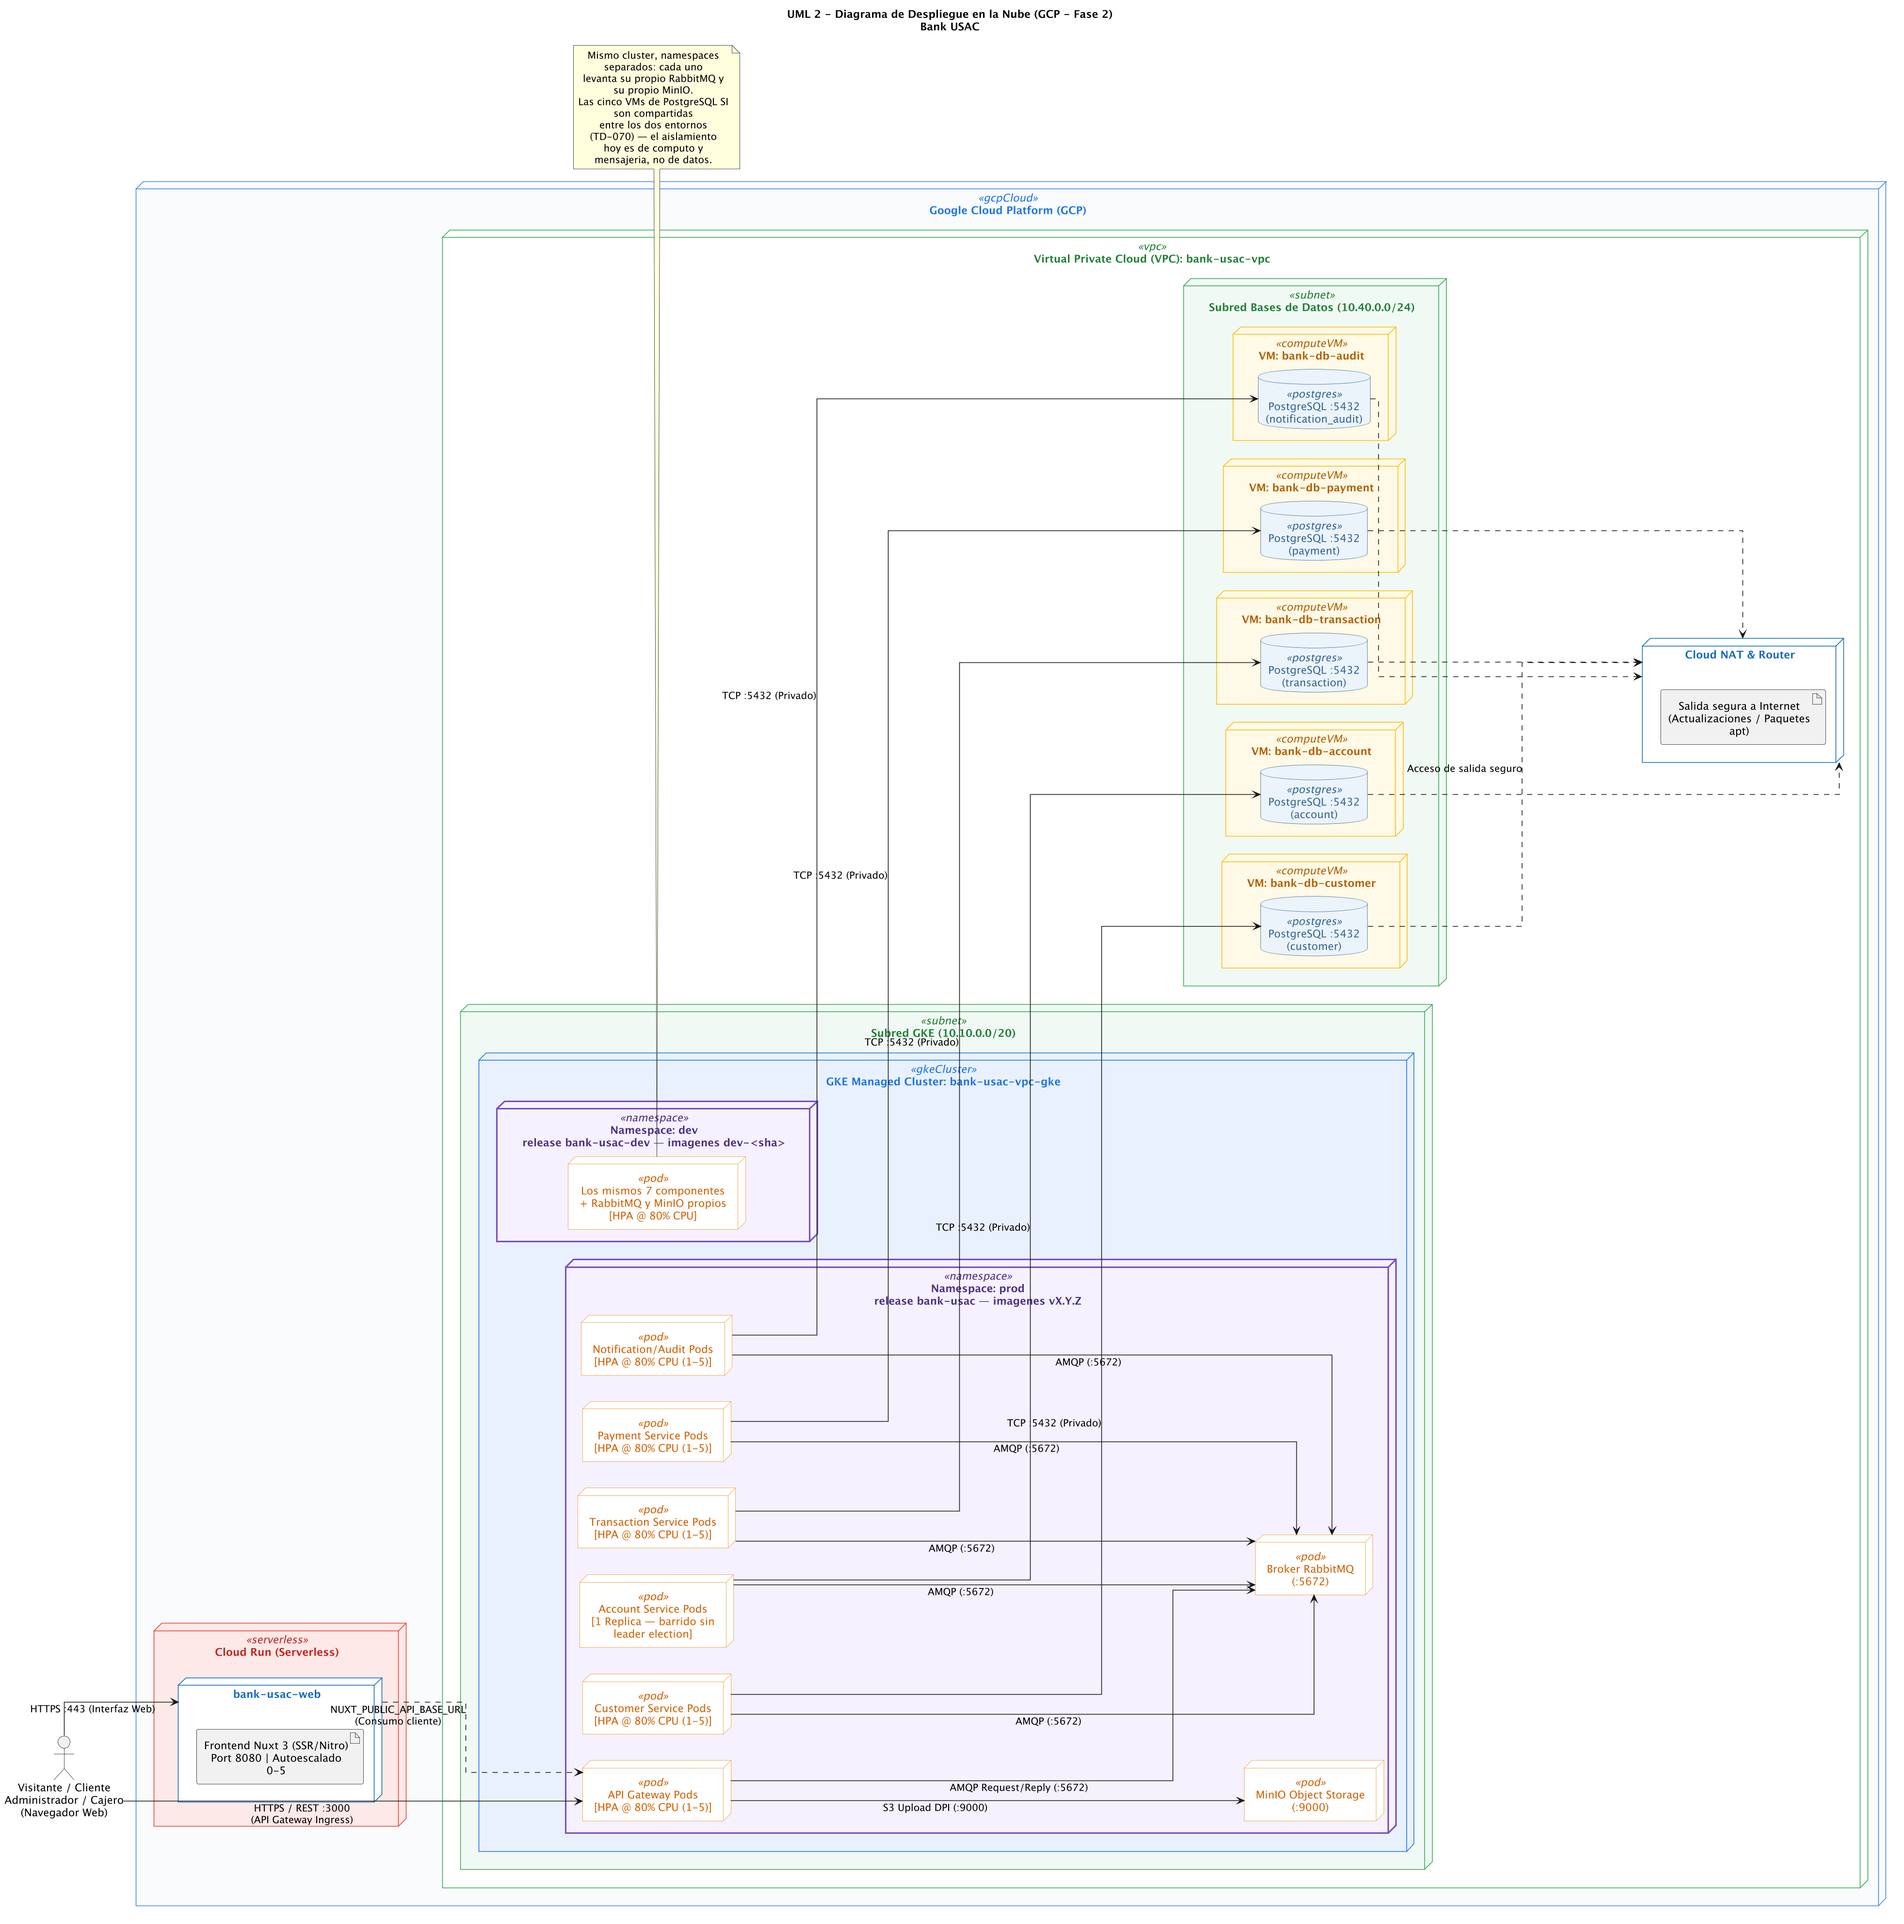
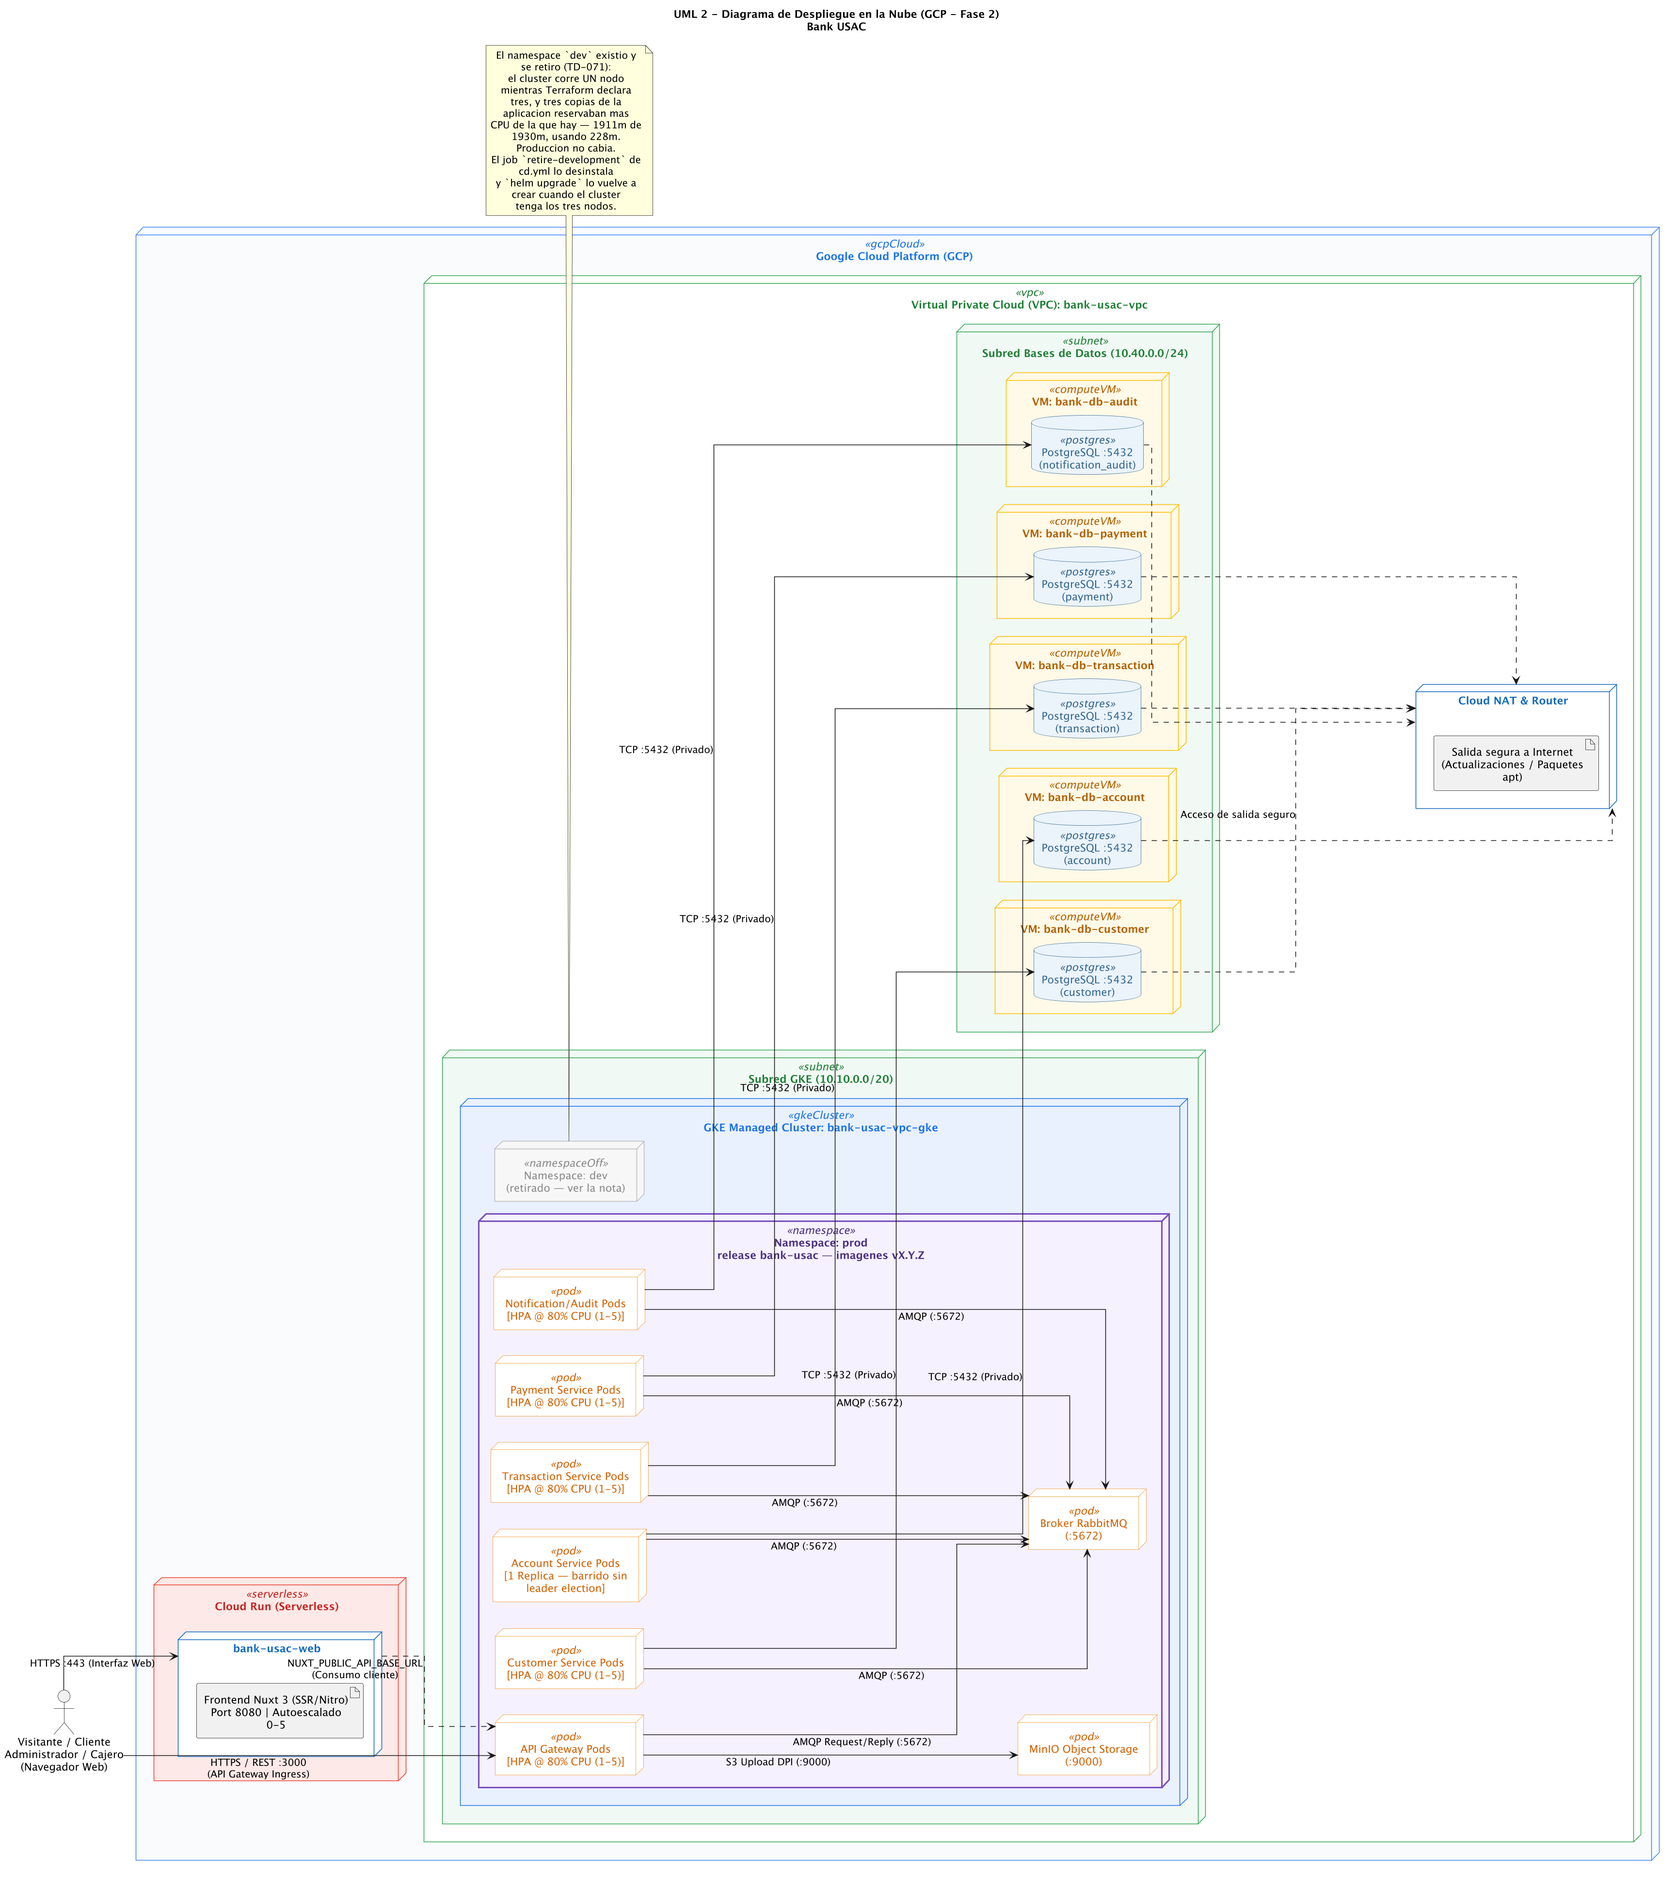
feat(k8s): rolling update sin caida, y revertir la restauracion de dev
**Rolling update.** Los siete Deployments declaraban probes correctas y
ninguna estrategia, asi que usaban la de Kubernetes por defecto: hasta
un 25% de pods retirados antes de tener reemplazo. Con `replicas: 1`
ese 25% redondea a uno — el unico que hay — y el Service se queda sin
endpoints hasta que el nuevo pasa su readiness. Una actualizacion
significaba una caida.

`maxUnavailable: 0` con `maxSurge: 1` invierte el orden: primero arranca
el nuevo, pasa readiness, y solo entonces muere el viejo. Cuesta un pod
de mas durante la actualizacion, no de forma permanente.

Que el pod nuevo este listo no basta. Al viejo le llega SIGTERM en el
mismo instante en que se le quita de los Endpoints, y kube-proxy puede
tardar en enterarse: las peticiones que ya iban en camino llegan a un
proceso que se esta cerrando. El `preStop` de cinco segundos le da al
plano de datos tiempo de dejar de enrutar antes de que el proceso
empiece a cerrarse, y los treinta de gracia lo cubren con margen para
las peticiones en vuelo.

**Se revierte la restauracion del entorno dev.** Decision del equipo:
se queda retirado. Con ella vuelven atras los jobs `changes`,
`build-development` y `deploy-development`, y el diagrama 08 deja de
dibujar un namespace que no existe — lo marca como retirado y explica
por que, que es mas util que omitirlo.

La deteccion de cambios y la logica de `UPDATED_COMPONENTS` se
conservan: estan construidas y probadas, y vuelven al pipeline sin
[…]

diff --git a/docs/TECH_DEBT.md b/docs/TECH_DEBT.md
@@ -66,7 +66,7 @@ item that grows into a design or feature belongs in a new spec.
 | TD-058 | Infrastructure | `external.mode=hostFallback` is declared, templated and documented, but has never been run. Every deployment so far has used `dockerNetwork`: pods reach the databases through selectorless Services backed by Endpoints on the shared `bank-usac-local` network. The fallback path — `ExternalName` to `host.docker.internal` on the Compose-published ports 5433-5437/5673/9002 — renders correctly under `helm template` and nothing more. | ADR-007 names it "the documented fallback", and `infra/k8s/kind/cluster.yaml` points a Linux reader at it, since Docker Desktop resolves `host.docker.internal` without configuration while a Linux host needs `--add-host=host.docker.internal:host-gateway` — which the chart does not set. So the one platform most likely to need the fallback is the one where it is least likely to work, and nobody has checked. A grader on Linux who hits the shared-network route failing would follow a documented path into a second failure. | Exercise it: `--set external.mode=hostFallback`, confirm the seven pods reach Ready against the published ports, and record the result beside the `dockerNetwork` evidence. If it needs the `--add-host` flag on Linux, either add it to `cluster.yaml` or say plainly in DEPLOYMENT.md that the fallback is macOS-only today. | k8s evidence | Open |
 | TD-059 | Tooling | `pnpm lint` fails on an unused `canWatch` in `apps/web/app/components/account/AccountCreateForm.vue`, and `pnpm test` fails on `notification-audit-service/test/domain.spec.ts`, which asserts fourteen notifying message types where the catalogue now has fifteen. Both predate this feature — confirmed by stashing every change and re-running. | Two of the four commands the README offers as the project's quality gates exit non-zero on a clean checkout. The test is the worse of the two: it is a deliberate "and no more" guard, so it is doing its job — a fifteenth type was added without the decision being recorded, and the guard has been red ever since rather than being answered. | **Resolved.** Checked at the start of T-30: `pnpm --filter web lint` is clean (`canWatch` is gone from `AccountCreateForm.vue`) and `domain.spec.ts` already asserts `toHaveLength(15)` — both halves were fixed by an intervening commit without a row here recording it. Confirmed by running both commands directly rather than trusting the row. | T-30 | **Resolved** |
 | TD-070 | Infrastructure | `dev` and `prod` are two namespaces in the same GKE cluster reading the **same five PostgreSQL databases**. Only the namespace, the release name and the image tag differ; `INFRA_ADDRESSES`, `HELM_SECRETS` and the cluster come from the same variables for both. | The assignment asks to "mantener separación entre entornos (dev / prod)" and says a deploy to development "no debe afectar el entorno productivo" (§4.1, p. 7). Today it can: a migration that lands with a dev deploy alters production's schema, and rows written from dev are production's rows. Compute and messaging *are* separated — each namespace runs its own pods, its own in-cluster RabbitMQ and its own MinIO — so the exposure is the database alone. | Decided knowingly on 2026-09-25, the day before grading. The remedy is databases per environment on the same VMs (`customer_dev`, `account_dev`, …), which the assignment allows: it asks for databases *on VMs*, not for a VM per environment. It was implemented, tested with `helm template` and then **withdrawn**, because it cannot be applied without a person who can reach the VMs: Terraform gives them no public IP (`# Sin IP pública externa`), `pg_hba.conf` admits only `10.0.0.0/8`, and each service's role is created with `CREATE ROLE … WITH LOGIN PASSWORD` and no `CREATEDB` — so neither a GitHub runner nor the application user can create a database. One person on the team holds that access, and the deadline was judged to cost more than the exposure. To close it, create the five databases once and pass `DB_NAME_SUFFIX=_dev` from the dev job:<br><br>`for db in customer account transaction payment notification-audit; do user="$(echo "$db" \| tr - _)_app"; name="$(echo "$db" \| tr - _)_dev"; gcloud compute ssh "bank-db-$db" --zone us-central1-a --quiet --command "sudo -u postgres psql -c \\"CREATE DATABASE $name OWNER ${user};\\""; done` | T-35 | Open — accepted |
-| TD-071 | Infrastructure | `cd.yml` no longer deploys to the `dev` namespace after a merge into `develop`. The assignment asks for it explicitly (§4.1, p. 7: "Despliegue en Kubernetes en el namespace de desarrollo (dev)"), and the job existed and worked — nine Deployments at `1/1`, HPAs measuring real CPU. It was removed because the cluster cannot hold it. | The GKE cluster runs **one** node while `infra/terraform/gcp/variables.tf` declares `gke_node_count = 3`, so the infrastructure does not match its own declaration. On that single node three copies of the application — the original manual release, `dev` and `prod` — reserve more CPU than exists: the node reached **1911m requested of ~1930m allocatable (99%) while using 228m (11%)**, full of reservations rather than work. Production's first real deploy got two pods scheduled and seven stuck in `FailedScheduling: Insufficient cpu`, then `--atomic` rolled it back. | **Restored.** The grading sheet scores "separación real entre los entornos dev y prod" directly, and its deployment-diagram item asks for the `dev`/`prod` namespaces by name, so removing the environment cost more than it saved. The job is back, now with selective build and deploy. It needs the cluster at the three nodes Terraform declares — `gcloud container clusters resize bank-usac-vpc-gke --node-pool bank-usac-vpc-node-pool --num-nodes 3 --zone us-central1-a` — and `retire-development` stays as the way to free that capacity on demand. Originally decided on 2026-09-25, choosing a working production over a complete pipeline; The `dev` job is replaced by a manual `retire-development` job that frees its 450m; it is idempotent and needs no gcloud access, so the team can run it from the Actions tab. **The real fix is the node count**, one command and no code change: `gcloud container clusters resize bank-usac-vpc-gke --node-pool bank-usac-vpc-node-pool --num-nodes 3 --zone us-central1-a`. With three nodes the `dev` job can be restored as it was — it is deleted from the workflow, not broken, and its last run is evidence that it worked. Restoring it closes this row. | T-35 | **Resolved** |
+| TD-071 | Infrastructure | `cd.yml` no longer deploys to the `dev` namespace after a merge into `develop`. The assignment asks for it explicitly (§4.1, p. 7: "Despliegue en Kubernetes en el namespace de desarrollo (dev)"), and the job existed and worked — nine Deployments at `1/1`, HPAs measuring real CPU. It was removed because the cluster cannot hold it. | The GKE cluster runs **one** node while `infra/terraform/gcp/variables.tf` declares `gke_node_count = 3`, so the infrastructure does not match its own declaration. On that single node three copies of the application — the original manual release, `dev` and `prod` — reserve more CPU than exists: the node reached **1911m requested of ~1930m allocatable (99%) while using 228m (11%)**, full of reservations rather than work. Production's first real deploy got two pods scheduled and seven stuck in `FailedScheduling: Insufficient cpu`, then `--atomic` rolled it back. | **Still open, and re-confirmed on 2026-09-25.** The grading sheet scores "separación real entre los entornos dev y prod" directly and names the `dev`/`prod` namespaces in its deployment-diagram item, so the row costs points as well as compliance — the restoration was prepared and then withdrawn on the team's call, to avoid depending on the one person with cluster access the day before grading. Closing it needs the cluster at the three nodes Terraform declares — `gcloud container clusters resize bank-usac-vpc-gke --node-pool bank-usac-vpc-node-pool --num-nodes 3 --zone us-central1-a` — and `retire-development` stays as the way to free that capacity on demand. Originally decided on 2026-09-25, choosing a working production over a complete pipeline; The `dev` job is replaced by a manual `retire-development` job that frees its 450m; it is idempotent and needs no gcloud access, so the team can run it from the Actions tab. **The real fix is the node count**, one command and no code change: `gcloud container clusters resize bank-usac-vpc-gke --node-pool bank-usac-vpc-node-pool --num-nodes 3 --zone us-central1-a`. With three nodes the `dev` job can be restored as it was — it is deleted from the workflow, not broken, and its last run is evidence that it worked. Restoring it closes this row. | T-35 | Open — accepted |
 
 ## Maintenance Rule
 | TD-060 | Documentation | `docs/qa/happypath.md` names eight screenshots that no run has produced: the activation pair (`hp-19`, `hp-20`), the deposit pair (`hp-40`, `hp-41`), the login-blocked-by-activation shot, and three error cases (`err-06`, `err-07`, `err-08`) that no script generates at all. | Eight steps of the graded evidence guide have prose but no picture. The five the suite can produce are one run away; the three `err-*` ones need new steps in `test/e2e/happypath.e2e.mjs`. | Re-run `node test/e2e/happypath.e2e.mjs` against a live stack to recapture the five, and add the three error cases to the suite. The 2026-09-09 cleanup replaced nine other broken references with the equivalent capture that does exist, and marked these eight in the text as pending. | Docs cleanup 2026-09-09 | Open |

diff --git a/docs/operations/MONOREPO.md b/docs/operations/MONOREPO.md
@@ -35,6 +35,13 @@ en ellos reconstruye los siete.
 
 ## Despliegue selectivo
 
+> **Estado.** La detección de cambios y la lógica de despliegue selectivo están
+> construidas y probadas, pero **hoy no las consume ningún workflow**: vivían en
+> el despliegue a `dev`, que se retiró porque el clúster corre un nodo en vez de
+> los tres que Terraform declara (**TD-071**). Producción despliega una versión
+> completa desde su tag, donde «selectivo» no aplica. Restaurar el entorno `dev`
+> las devuelve al pipeline sin cambiarlas.
+
 `.github/workflows/changes.yml` clasifica los archivos que cambiaron y
 devuelve la lista de componentes a construir. Es un workflow reutilizable en
 vez de un job copiado: la lista de rutas **es** la definición de la estrategia,
